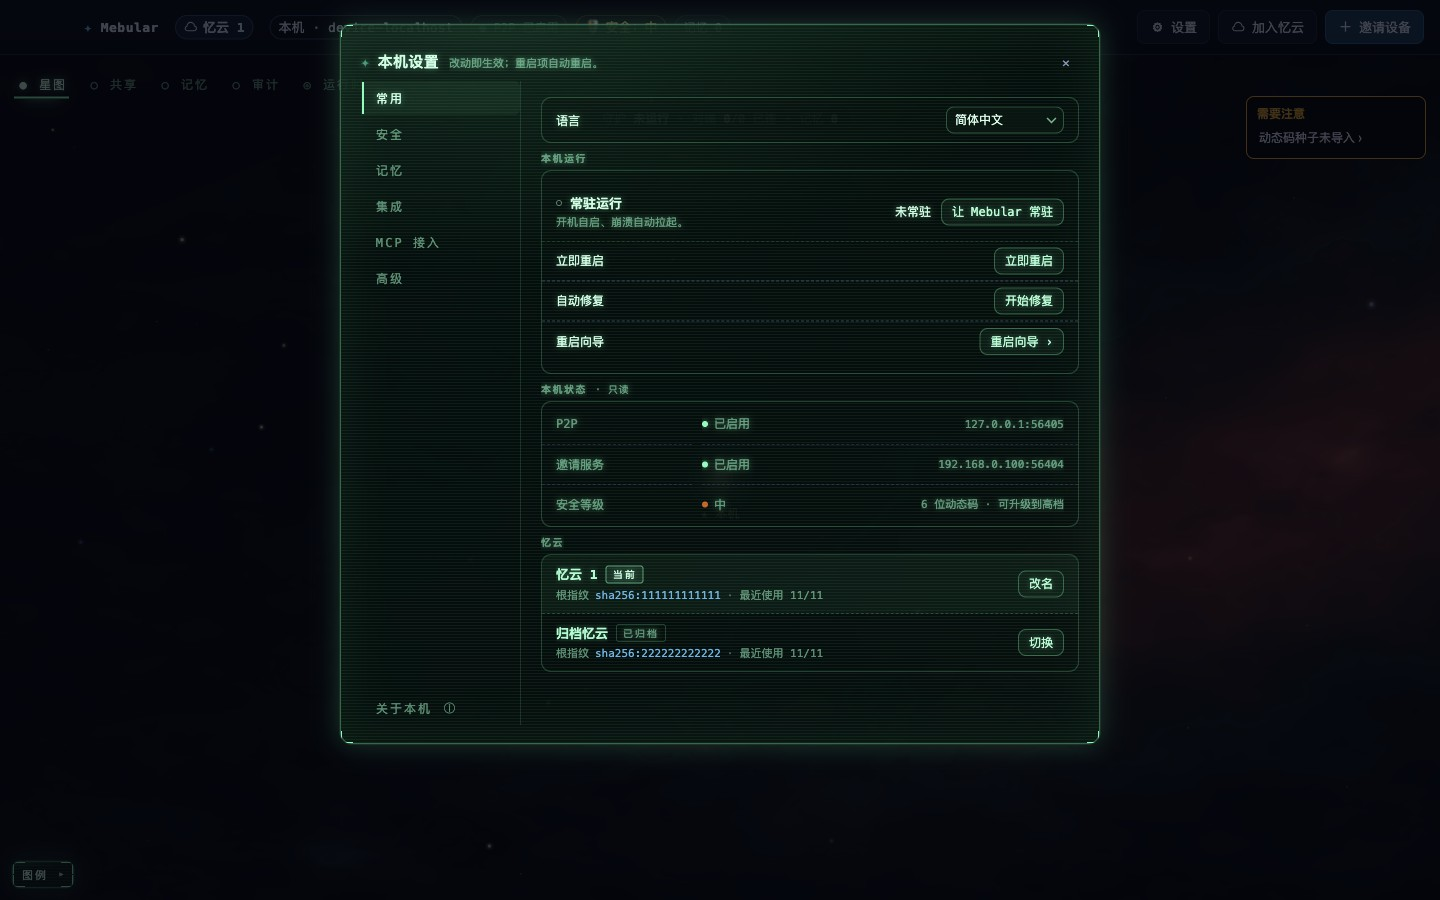
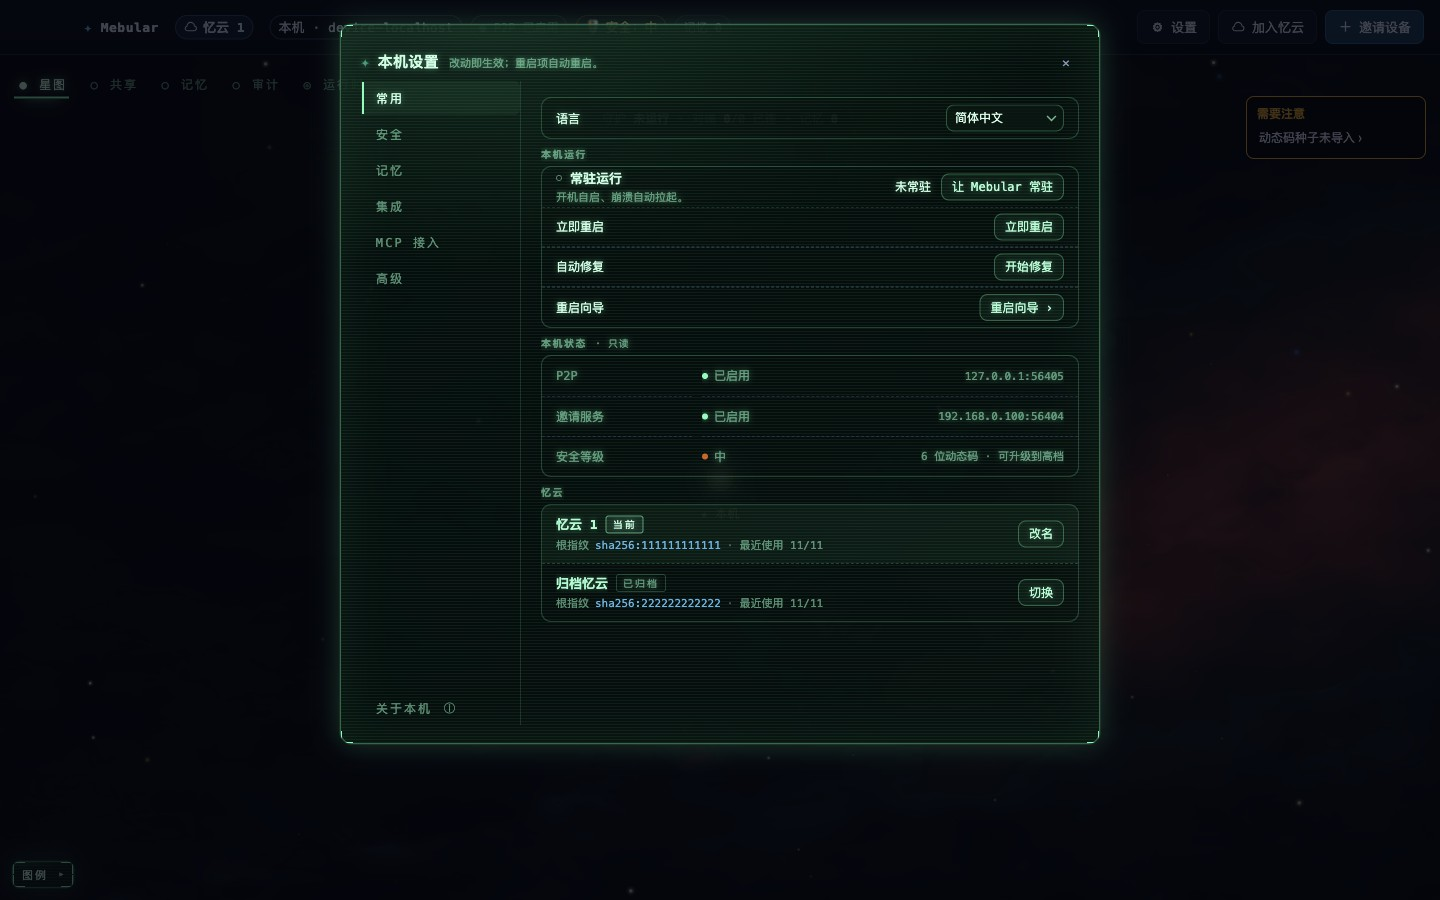
fix(console): unify settings row and control geometry

diff --git a/packages/console/console.css b/packages/console/console.css
@@ -2695,12 +2695,12 @@ html[lang="en-US"] .btn-small { line-height: 1.5; }
   border: 1px solid rgba(80, 255, 170, 0.22);
   border-radius: 10px;
   background: rgba(2, 16, 11, 0.34);
-  /* 状态卡 2px 呼吸；常驻组 12；忆云 0。行高本身仍严格 40/58。 */
-  padding: 2px 0;
+  /* 面板自身承担圆角贴边；首/末行与中间行一致，不再添加上下呼吸。 */
+  padding: 0;
   overflow: hidden;
   min-width: 0;
 }
-#settings-resident { padding: 12px 0; }
+#settings-resident { padding: 0; }
 #settings-cloud-card .settings-group-body { padding: 0; }
 .settings-group-desc,
 .settings-group-foot {
@@ -2794,7 +2794,7 @@ html[lang="en-US"] .btn-small { line-height: 1.5; }
 
 /* 两行行：常驻 / 忆云 / 数据 */
 .settings-row-2 {
-  height: 58px; min-height: 58px;
+  height: 40px; min-height: 40px;
   display: flex; align-items: center; gap: 10px;
   padding: 0 14px;
   border-top: 1px dashed rgba(80, 255, 170, 0.14);
@@ -2803,7 +2803,7 @@ html[lang="en-US"] .btn-small { line-height: 1.5; }
 .settings-row-2 .settings-row-stack { flex: 1 1 auto; min-width: 0; display: flex; flex-direction: column; gap: 2px; }
 .settings-row-2 .settings-row-title {
   display: flex; align-items: center; gap: 8px; min-width: 0;
-  font-size: 13px; line-height: 19px; font-weight: 600; color: var(--crt-bright);
+  font-size: 13px; line-height: 18px; font-weight: 600; color: var(--crt-bright);
   white-space: nowrap; overflow: hidden; text-overflow: ellipsis;
 }
 .settings-row-2 .settings-row-meta {
@@ -2999,7 +2999,7 @@ html[lang="en-US"] .btn-small { line-height: 1.5; }
   #about .modal-actions { flex-wrap: wrap; }
 }
 
-/* 常用 · 本机运行组内的行（服务行 58；自动修复 / 重启向导 40） */
+/* 常用 · 本机运行组内的行（常驻 / 重启 / 自动修复 / 重启向导均 40） */
 .settings-row-status {
   flex: none; display: inline-flex; align-items: center; gap: 6px;
   font-size: 12px; line-height: 18px; color: var(--crt-bright);
@@ -3110,8 +3110,8 @@ html[lang="en-US"] .btn-small { line-height: 1.5; }
   .cfg-control { flex: 1 1 100%; margin-left: 0; justify-content: flex-start; }
   .cfg-control .crt-input { width: 100%; min-width: 0; }
   .cfg-status { margin-left: auto; }
-  .settings-row-2 { height: auto; min-height: 58px; flex-wrap: wrap; padding: 8px 14px; row-gap: 6px; }
-  .settings-row-2 .settings-row-actions { width: 100%; justify-content: flex-end; flex-wrap: wrap; }
+  .settings-row-2 { height: 40px; min-height: 40px; flex-wrap: nowrap; padding: 0 14px; row-gap: 0; }
+  .settings-row-2 .settings-row-actions { width: auto; justify-content: flex-end; flex-wrap: nowrap; }
   #assistants-panel .asst-row { flex-wrap: wrap; padding: 6px 14px; row-gap: 4px; }
   #assistants-panel .asst-row .btn { margin-left: auto; }
 }
@@ -3271,9 +3271,14 @@ html[lang="en-US"] .modal-settings .cfg-label { line-height: 19px; }
 .modal-settings .cfg-label { flex: none; }
 .modal-settings .cfg-control { margin-left: 0; justify-self: end; justify-content: flex-end; }
 .modal-settings .cfg-status { justify-self: end; }
-.modal-settings [data-settings-section="model-source"] .cfg-control { justify-content: flex-end; justify-self: stretch; width: 100%; }
+.modal-settings [data-settings-section="model-source"] .cfg-row { grid-template-columns: 150px minmax(0, 1fr); }
+.modal-settings [data-settings-section="model-source"] .cfg-row > .cfg-status:empty { display: none; }
+.modal-settings [data-settings-section="model-source"] .cfg-control { justify-content: flex-end; justify-self: end; width: 100%; }
 [data-settings-section="model-source"] .cfg-control .crt-select { width: min(280px, 100%); flex: none; }
 [data-settings-section="model-source"] .cfg-control .crt-select-trigger { width: 100%; }
+@media (max-width: 760px) {
+  .modal-settings [data-settings-section="model-source"] .cfg-row { grid-template-columns: minmax(0, 1fr); }
+}
 .modal-settings .settings-kv .kv-action .btn { height: 27px; }
 
 /* v2.1 · 常用「界面」组：语言行在面板内不再自带下虚线 */
@@ -3410,7 +3415,10 @@ html[lang="en-US"] .modal-settings .cfg-label { line-height: 19px; }
 .modal-settings .crt-select-trigger { padding: 0 8px !important; }
 .modal-settings .cfg-control { min-height: var(--settings-control-h); }
 .modal-settings .runtime-mode-seg { height: var(--settings-control-h); border-radius: var(--settings-control-radius); }
-.modal-settings .runtime-mode-seg .btn { border-radius: 0 !important; }
+.modal-settings .runtime-mode-seg .btn {
+  height: 100% !important; min-height: 0 !important;
+  box-sizing: border-box; border-radius: 0 !important;
+}
 
 /* 组内说明/分组说明/段脚：占满面板、16 行高、左右 14；彻底去掉 62ch 截短 */
 .modal-settings .settings-group-note,

diff --git a/packages/console/assistants.js b/packages/console/assistants.js
@@ -341,7 +341,7 @@ export function assistantsPanelHtml({ clients, ui = {} } = {}) {
       <div class="asst-xp" id="asst-missing" hidden>${missingRows}</div>` : ''}`;
 }
 
-/** 常驻运行行（设置 · 常用）：58 行 = 状态 + 主操作；「更多」只保留取消常驻。 */
+/** 常驻运行行（设置 · 常用）：40 行 = 标题/短 meta + 主操作；「更多」只保留取消常驻。 */
 export function serviceRowHtml(service, serviceMsg = '') {
   if (!service) return `<p class="muted">${esc(tr('settings.service.loading', '常驻状态加载中…'))}</p>`;
   const registered = Boolean(service.registered);

diff --git a/docs/console/screens/u4-settings-redesign/README.md b/docs/console/screens/u4-settings-redesign/README.md
@@ -3,7 +3,7 @@
 基线：`feat/console-settings-redesign` 的 v2 设置改版（760×720 / 关于 760×680）。本目录是 v2 全量视觉基线；U-1 / U-3 目录里对应的设置截图已同步刷新。
 
 > **v2.5 实证纠偏（2026-11-12，真实 App 改前 + 本地 serve/CDP 改后）**：只读行不再被旧选择器清掉内缩——设置 / 运行状态 / 关于均为左 14，纯只读值右 14；无复制动作时不保留空 56px 列。主值在左、meta 在右；P2P multiaddr 与邀请 URL 仅显示实际 `host:port`，不可解析为 `—`。控件文字 12；安全说明 12/17、辅助 meta 11/16；忆云名称 13/19、辅助 11/16；记忆页尾 11/16；关于标题 15/20，仍 680 + 三组三折叠。1440 与 390 的 common / security / memory / integrations / mcp / advanced 均重新实测，390 无横向溢出。
-> **最终布局收口**：本机运行固定为常驻 58 → 立即重启 40 → 自动修复 40 → 重启向导 40；重启不进「更多」，向导不在组头。普通 group/section hint 与记忆页尾均 `display:none`，全文由组/控件 `title` 承载，异常 warning 保持可见。模型来源 `.cfg-control` 拉满 grid 控件列并右对齐，`.crt-select` 为 `min(280px,100%)`、trigger 全宽；实测 1440 为 270px、900/390 为 280px，右缘差 0。常用用组间距 8、组头下距 4，并隐藏语言项上方重复的「界面」组头；1440 四项 + 40px banner 实测 **596/596，不滚动**。
+> **最终几何收口**：本机运行四项均为 **40px**（常驻 / 立即重启 / 自动修复 / 重启向导）；设置面板上下 padding 全 0，panel 自身 `border-radius:10 + overflow:hidden`，首末行与中间一致。重启不进「更多」，向导不在组头。普通 group/section hint 与记忆页尾均 `display:none`，全文由组/控件 `title` 承载，异常 warning 保持可见。模型来源删除空 68px 状态列，`.cfg-control` 右对齐，`.crt-select` 为 `min(280px,100%)`、trigger 全宽；1440/900/390 均为 280px，距面板外缘 15px（14 行内距 + 1 边框）。分段外框 27、content/选项 25，选项 `height:100% + border-box`、圆角 0。常用用组间距 8、组头下距 4，并隐藏语言项上方重复的「界面」组头；四项 + 40px banner 在 1440/900/390 均不滚动。
 > **v2.4 字体/间距校准（2026-11-12，设计原稿）**：页签字距 **2px**；普通只读行（settings-kv / runtime-kv）标签与值 **12 / 18**；内容滚动区 **16 / 20 / 20**；组面板内缩 **状态卡 2 / 常驻 12 / 忆云 0**；本机状态右侧 meta **11px 纯文字右对齐**（P2P 监听地址 / 邀请 endpoint / 安全档位说明，无数据 `—`）；常用 720 + 40 条内容 **558 / 596** 不滚；行仍 40/58，安全卡 114/19、160 轨、分段、序号/审计、关于 680 不变。
 > **v2.3 控件 token 收口（2026-11-12）**：设置内可见控件统一 **27 高 / 8 圆角**（button `padding: 0 10`；input / select trigger `0 8`）。`.settings-group-body` **padding 0 + overflow hidden**，首/末行严格 40/58（面板高 = 行 + 2px 边框）；`.settings-group-note/-desc/-foot`、`.settings-section-foot` **width 100% / max-width none / 16px 行高 / padding 0 14**，取消 62ch；390 自动修复行改 58 两行，meta 留在面板内。实测：button 27/8/10、trigger 27/8/8、input 27/8/8；group label/body x=541，note 元素 x=542（1px 面板边框内）、右缘 1078，文字左 556。
 > **v2.2 校准（2026-11-11，任务书覆盖）**：设置外框 **760**、左轨 **160**、内容列 **538**（约 540）；`.modal-settings` 内距 `18 0 18 20`，`.settings-scroll` 横向 **20** —— 竖线到内容、内容到右缘都留 20（滚动条贴右）。Header **57**（18 顶距 + 38 行）：`✦ 本机设置  改动即生效…` 同一行。左轨激活 **实底 `rgba(80,255,170,.06)` + 2px 左条 + 亮绿**。设置高 **720**、关于 **680**；行 **34 / 40 / 58**，按钮 **27**、输入/下拉 26。
@@ -16,15 +16,15 @@
 - **外壳**：设置 760×720、关于 760×680；`✦ 本机设置` 与「改动即生效；重启项自动重启。」同一行（header 57，含 18 顶距）；只有内容列 `.settings-scroll` 滚动。
 - **竖轨**：≥901px 为左侧 **160px** 固定页签轨（`常用 / 安全 / 记忆 / 集成 / MCP 接入 / 高级`，底部「关于本机 ⓘ」）；激活态为整行实底 + 2px 左条。**≤900px** 折叠为顶部横排；**≤760px** 顶部横排 + 只读行改为上下两行；**≤560px** 全屏无边框。
 - **900 档**：顶部横排后内容区变矮，**允许竖向滚动**（正常行、正常滚动）；只读行仍是 40px、label/value 同一行，禁止套 390 的堆叠规则。
-- **统一行模板**：字段行 `label 150 | control 1fr | status 68`，只读行 `label | value | action`；40px + 行间虚线；常驻/忆云两行信息 58px；高级开关 38×20；警告/帮助独立成行。
-- **常用「界面」组**：语言行归入 10px「界面」组头；「重启向导」从 40px 行移到「本机运行」组头右侧（27px ghost，保留 `#settings-open-wizard` 与桌面桥条件，动作不占行高）。其它页组间距 **12**、组头下距 **8**；常用为容纳四个独立动作，最终使用 **8 / 4** 并隐藏语言项的重复组头，720 + 40 条实测 **596 / 596**，不滚动。
+- **统一行模板**：字段行 `label 150 | control 1fr | status 68`，只读行 `label | value | action`；40px + 行间虚线；常驻两项信息也在 40px 内，忆云两行信息 58px；高级开关 38×20；警告/帮助独立成行。
+- **常用「界面」与本机运行**：语言行保留自有 label，不重复显示「界面」组头；「重启向导」是本机运行最后一个 40px 行（保留 `#settings-open-wizard` 与桌面桥条件）。其它页组间距 **12**、组头下距 **8**；常用使用 **8 / 4**，四项 + 40px banner 在 1440/900/390 均不滚动。
 - **异常可见性**：`pending` / `mismatch` 的完整三元组（已配置 / 实际 / 原因）默认作为行下静态 11px 警告行显示，不依赖 focus、不藏 popover；行本身仍 40px，无异常时没有这行。
 - **安全卡**：三张同构 114px（安全等级 / 动态码种子 / 恢复码），19px 状态值；`is-effective` 实心点 + 左侧荧光条，`is-off` 空心点、off 大数值用 `--crt-dim`；警告行（`.sec-card-warn`）inset 2px 琥珀 + 8px 左内距。待批准条只在有记录时置顶（40px）。
 - **关于本机**：三组（身份与存储 / 运行与同步 / 诊断与恢复）+ 三折叠，40px 行；旧 about 的 43 项字段全量保留（见 `../../../console/ABOUT-PARITY` 对应原型清单），不新增日志路径。
 - **常驻「更多」**：行内 `btn-crt` ghost（bg rgba(8,38,26,.6) / bd rgba(80,255,170,.32) / #A9FFD4）+ 浮层菜单（`aria-haspopup="menu"` / `aria-expanded`，Esc / 点外关闭，`position: fixed` 不被弹层裁切）；主操作仍直接可见。
-- **集成**：保持 40 行 + 原有详情/表单，不做 58 行版本；58 只用于常驻/忆云。
+- **集成**：保持 40 行 + 原有详情/表单，不做 58 行版本；58 只用于忆云。
 - **说明密度**：普通分组说明 / note / foot 默认隐藏，全文进所在组或控件的 `title`；记忆模式、模型来源与页尾说明同样不占布局。MCP 端口 mismatch、待重启、安全待批准等异常 warning 始终可见。
-- **记忆模式**：单个外框分段控件（两格等宽、无间隙），active 格 `rgba(80,255,170,.10)` + ✓；标题旁不再挂模式 chip；外框 27 高 / 8 圆角。
+- **记忆模式**：单个外框分段控件（两格等宽、无间隙），active 格 `rgba(80,255,170,.10)` + ✓；标题旁不再挂模式 chip；外框 27 高 / 8 圆角；内部选项为外框 content 高（25），不再写死 27。
 - **运行状态**：模式/状态值是右对齐纯文字（无 `.crt-tag`），异常才琥珀，空值 `—` 用 `--crt-faint`。
 - **忆云状态**：「当前」= `.sec-tag-current` 绿描边微光；「已归档」= 透明底 + `--crt-border-soft` 描边 + `--crt-dim`；不用列表页填充式 `.ns-chip`。
 - **开关**：off 轨道 `rgba(140,255,200,.12)`、滑块 `rgba(140,255,200,.45)`（去蓝）；on 仍 `var(--ok)` + 白滑块。
@@ -41,7 +41,7 @@
 
 | 文件 | 说明 |
 |---|---|
-| `u4-after-settings-common-1440.jpg` | 常用：语言 + 本机运行四项（常驻 58 / 立即重启 40 / 修复 40 / 向导 40，12 内缩）+ 本机状态 3×40（12/18 + 右侧短 meta）+ 忆云 2×58 |
+| `u4-after-settings-common-1440.jpg` | 常用：语言 + 本机运行四项均 40（panel 0 内缩）+ 本机状态 3×40（12/18 + 右侧短 meta）+ 忆云 2×58 |
 | `u4-after-settings-common-banner-1440.jpg` | 常用 + 40px 待重启条：单行、动作右对齐、不挤压内容 |
 | `u4-after-settings-security-1440.jpg` | 安全：01–03 序号列 + 114 卡 + 19px 值 + 11px 审计一行流（无事件时隐藏） |
 | `u4-after-settings-memory-1440.jpg` | 记忆：单框分段（轻量 MCP / 沉浸式，active .10 + ✓）/ 模型来源（heuristic/local/host/api/auto）/ 运行状态（纯文字，无 pill） |
